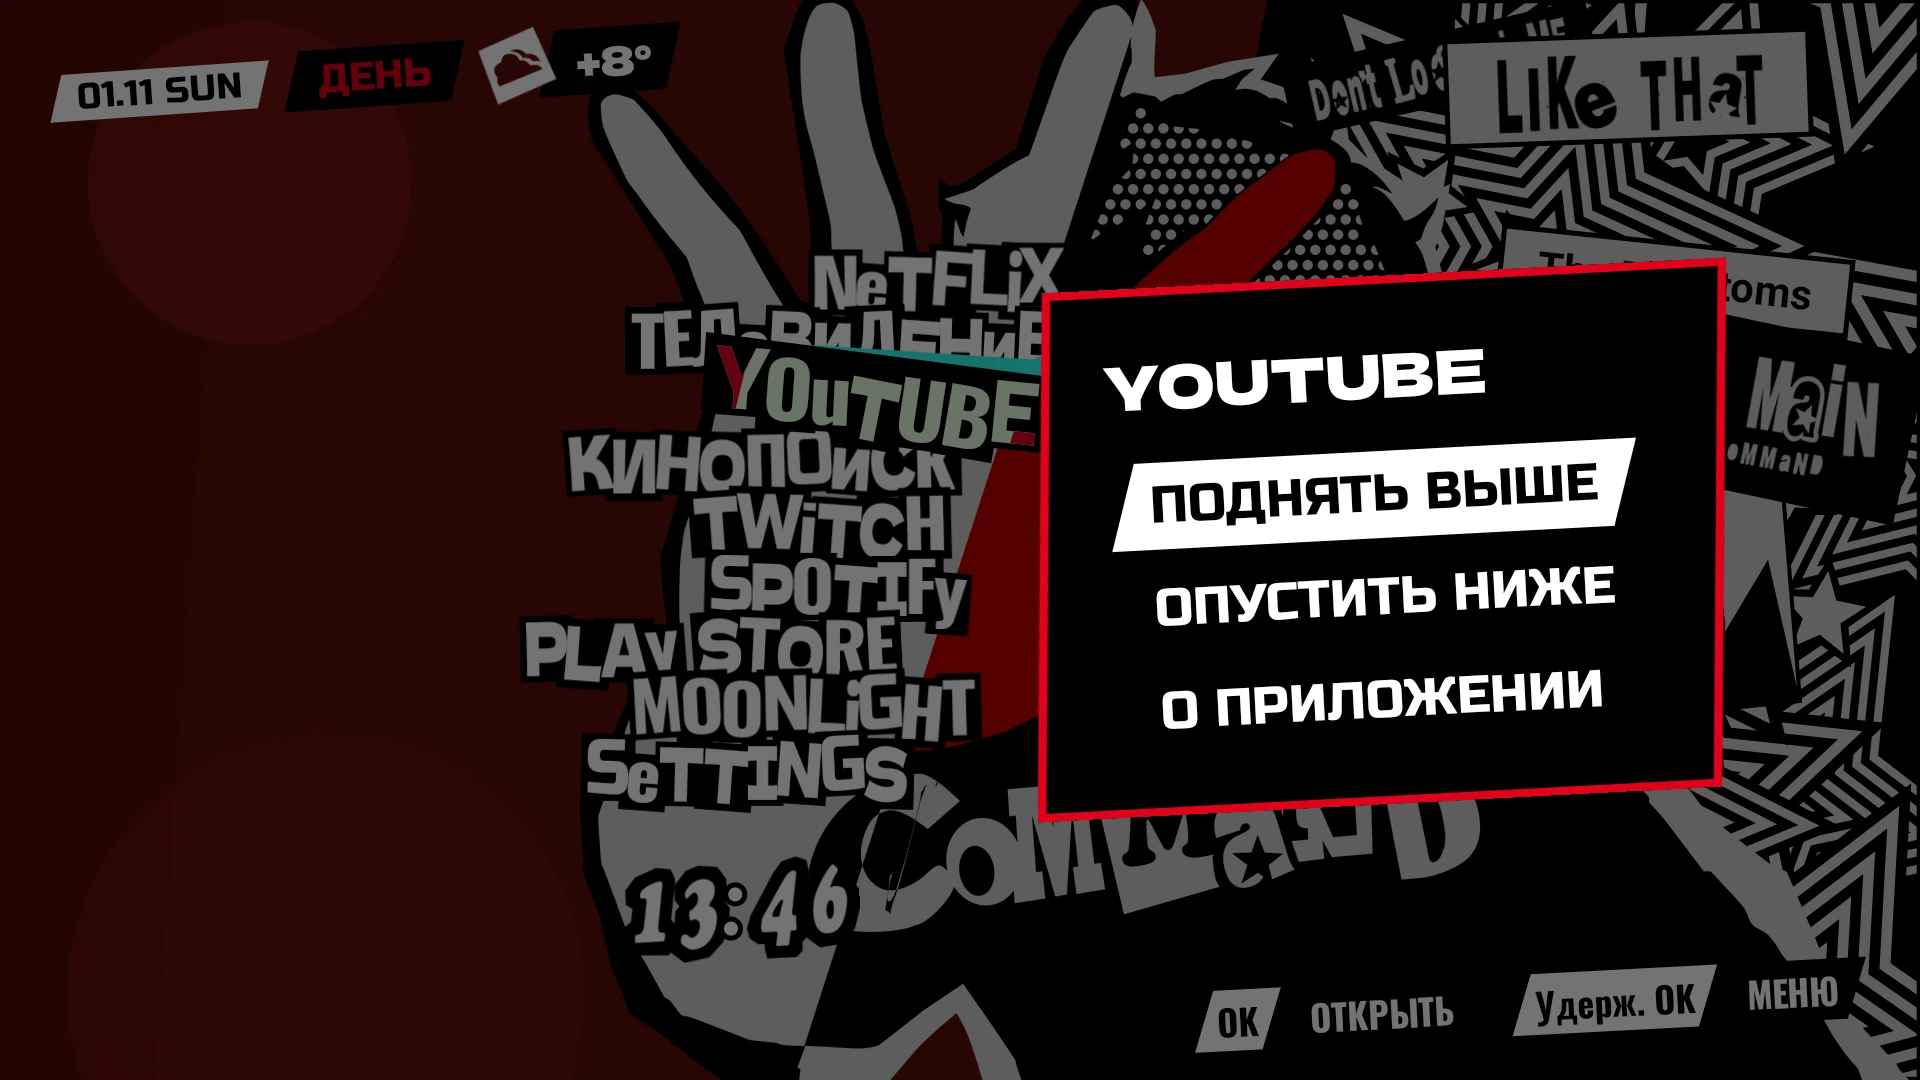
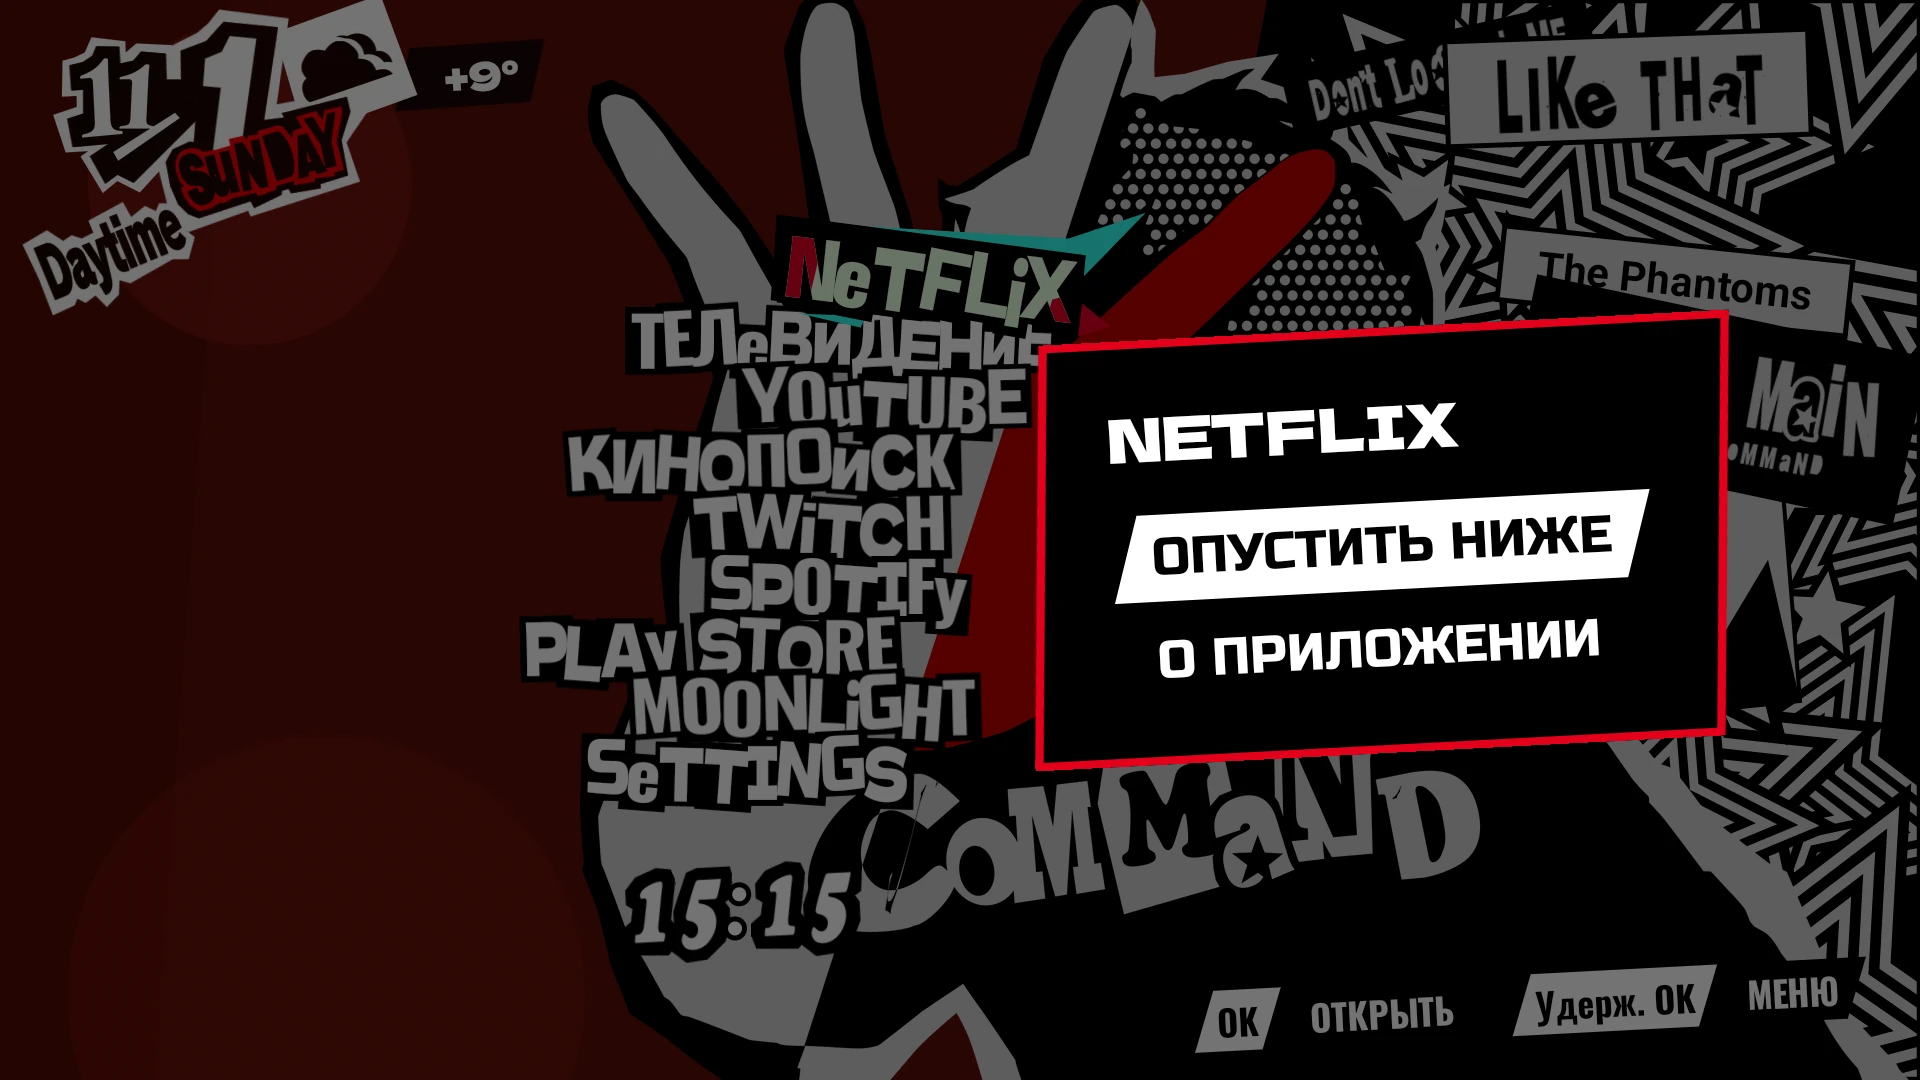
docs: the date display in the README, refreshed screenshots and GIF

Changed region(s): [[0.3438, 0.1833, 0.9062, 0.7639], [0.0, 0.0, 0.375, 0.3056], [0.3438, 0.7944, 0.4688, 0.8861]]

diff --git a/README.md b/README.md
@@ -26,9 +26,11 @@ cursor animations were timed frame by frame on 60 fps footage of the game.
 - **Confidant ranks.** Each app gets an arcana and a rank from 0 to 10, earned by watch time
   over the last 30 days (usage stats). A rank-up shows a «Ранг повышен!» overlay, and once an
   app has a rank, the line under COMMAND shows its arcana and rank.
-- **Clock, date and weather.** The time is drawn in the money counter's digits. The date, part
-  of day and the current weather (Open-Meteo, no API key) sit in the top-left corner; the
-  weather uses the game's own animated icons from its field date display.
+- **Clock, date and weather.** The time is drawn in the money counter's digits. The top-left
+  corner is the game's field date display, rebuilt from its sprites: month, day, weekday (cyan
+  on Saturdays, red on Sundays), time of day and the animated weather icon, with the temperature
+  on a tag. The current weather (Open-Meteo, no API key) also raises the game's special-weather
+  banners: Typhoon Warning, Torrential Rain, Cold Wave, Heat Wave and Hot Night.
 - **Two themes.** Joker (the camp menu) and Collage (an earlier, freer Persona-style design).
   Switch with the «Оформление» entry at the end of the list.
 - **Built for weak TVs.** Static layers are prerendered into bitmaps. Full frame rate runs only
@@ -132,18 +134,19 @@ app/src/main/kotlin/com/chroniac/tvhome/
 ├── HomeActivity.kt       app list, shortcuts, theme choice, lifecycle
 ├── Entries.kt            installed leanback apps and their saved order
 ├── Bonds.kt              confidant ranks from UsageStatsManager
-├── Weather.kt            Open-Meteo current weather, cached
+├── Weather.kt            Open-Meteo current weather and gusts, cached
 ├── MenuSounds.kt         the game's cursor and menu-open sounds (SoundPool)
 └── ui/
     ├── LauncherScreen.kt frame clock, idle throttling, remote keys
     ├── Phantom.kt        the Joker theme: the camp menu
     ├── Opening.kt        opening and cursor timings measured on the footage, frame by frame
     ├── OpeningFrames.kt  the opening's silhouettes, loaded as alpha masks
+    ├── GameDate.kt       the field date display: sprites at their measured places, banners
     ├── Ransom.kt         ransom-note lettering
     ├── Motion.kt         selection state and easing on a frame clock
     └── …                 Collage theme, app menu, rank-up overlay, date badge
 tools/p5r/
-├── make_assets.py        writes res/drawable-nodpi/p5_* and res/raw/p5_* from the game
+├── make_assets.py        writes res/drawable-nodpi/p5_*, res/raw/p5_* and assets/p5_date from the game
 ├── cpk.py                CRI CPK archives: TOC, CRILAYLA, P5R's per-file XOR
 ├── spd.py                Atlus SPD sprite dictionaries (lists sprite ids when run directly)
 ├── sfx.py                the SYSTEM.ACB/AWB sound bank: CRI ADX with P5R's key
@@ -158,6 +161,10 @@ animation 0 of its GAP pack, drawn flat: white left of the star panel's edge, bl
 game files hold no camera for this shot, so the cameras in `params.json` were fitted to the
 footage frame by frame. The app keeps the 36 masks as half-resolution ALPHA_8 bitmaps, about
 5 MB.
+
+The date display comes from the game's field HUD (`CALENDAR/P5_FIELD_DAY.SPD`). Each sprite sits
+at the centre and tilt measured on 60 fps footage of the game, the layers go down in the game's
+order, and its black parts let a quarter of what is behind them show through, as in the game.
 
 All motion runs on one frame clock instead of Compose animations. Slow TVs are often sped up by
 setting the animator duration scale to 0 (the author's is), and that would make every Compose
